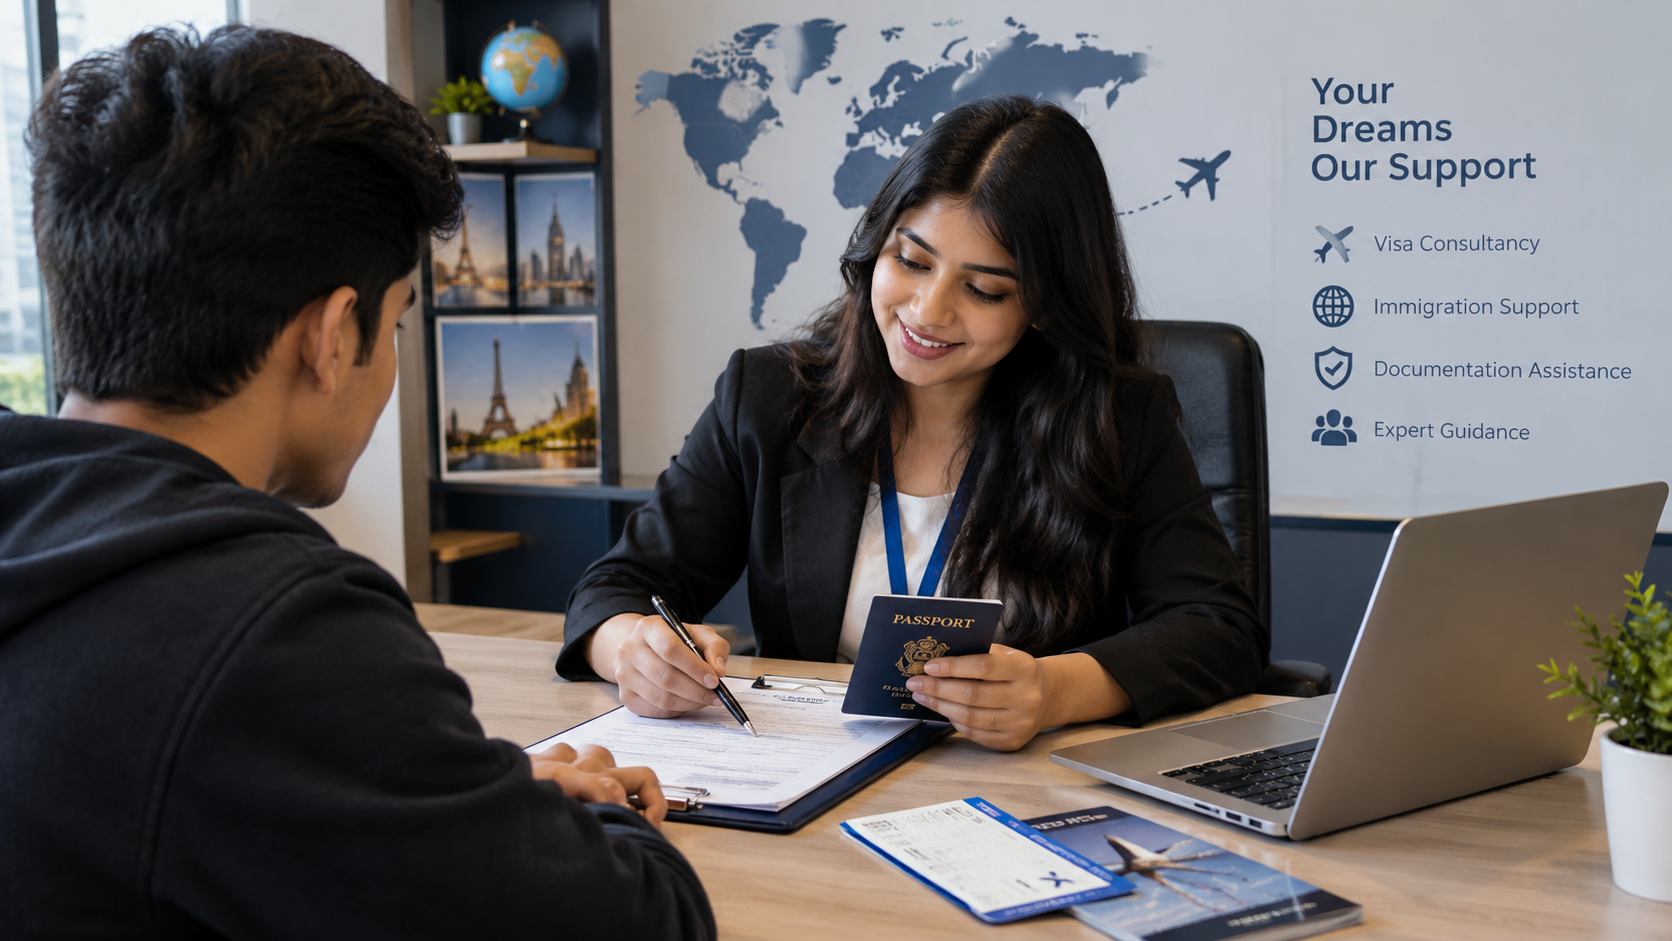
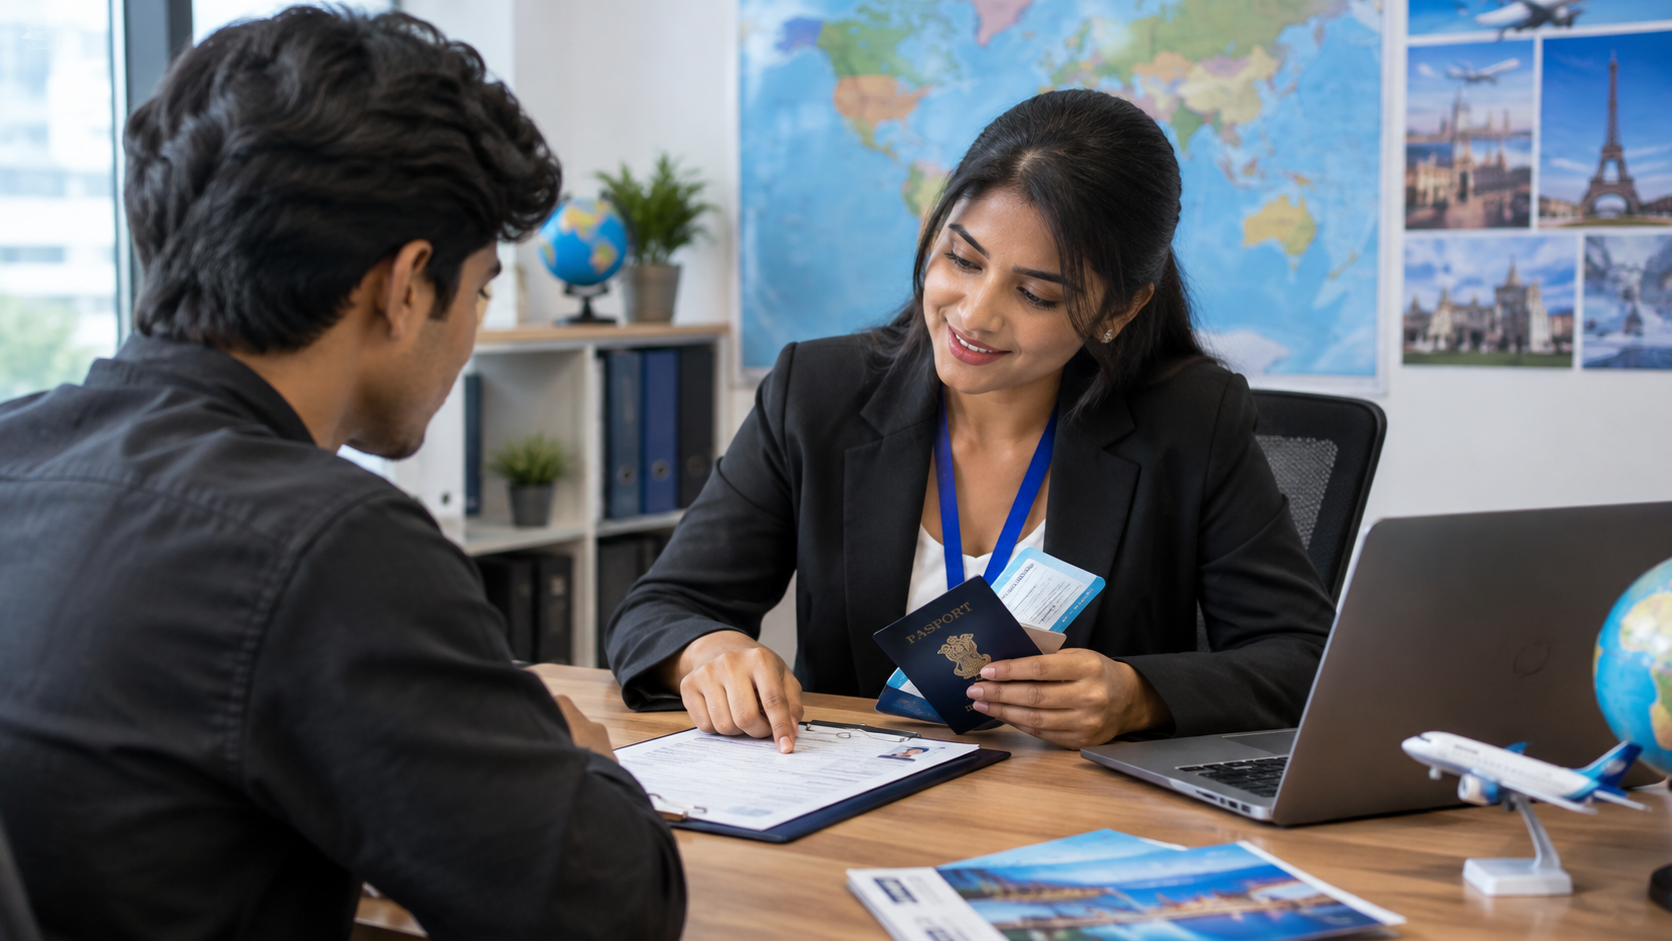
Update and modify the UI parts

diff --git a/components/ContactCTA.tsx b/components/ContactCTA.tsx
@@ -2,7 +2,7 @@ import React from "react";
 
 export default function ContactCTA() {
   return (
-    <section id="contact" className="bg-gm-maroon text-white py-12 sm:py-16">
+    <section id="contact" className="bg-gm-green text-black py-10 sm:py-10 font-semibold  text-size-20">
       <div className="max-w-[900px] mx-auto px-4 sm:px-6 md:px-10 text-center">
         <div>
           <h3 className="font-display text-[22px] sm:text-[24px] md:text-[30px] font-semibold tracking-tight">
@@ -10,32 +10,32 @@ export default function ContactCTA() {
           </h3>
         </div>
 
-        <div className="mt-7 grid grid-cols-1 gap-4 border-t border-white/30 pt-6 text-sm leading-relaxed text-white/85 sm:grid-cols-2 sm:gap-x-8 sm:gap-y-5">
+        <div className="mt-7 grid grid-cols-1 gap-4 border-t border-black pt-6 text-sm leading-relaxed text-bla/85 sm:grid-cols-2 sm:gap-x-8 sm:gap-y-5">
           <div>
-            <p className="font-mono text-xs uppercase tracking-wide text-white/65">Telephone</p>
+            <span className="mb-2 block text-3xl leading-none drop-shadow-sm sm:text-3xl" role="img" aria-label="Telephone">📞</span>
             <div className="mt-1 flex flex-wrap justify-center gap-x-3 gap-y-1">
-              <a href="tel:0117722992" className="hover:underline">011 77 22 992</a>
-              <a href="tel:0247722992" className="hover:underline">024 77 22 992</a>
+              <a href="tel:0117722992" className="hover:underline text-[18px] sm:text-[18px] md:text-[18px] font-semibold tracking-tight">011 77 22 992</a>
+              <a href="tel:0247722992" className="hover:underline text-[18px] sm:text-[18px] md:text-[18px] font-semibold tracking-tight">024 77 22 992</a>
             </div>
           </div>
           <div>
-            <p className="font-mono text-xs uppercase tracking-wide text-white/65">Mobile</p>
-            <a href="tel:0777722992" className="mt-1 inline-block hover:underline">077 77 22 992</a>
+            <span className="mb-2 block text-3xl leading-none drop-shadow-sm sm:text-3xl" role="img" aria-label="Mobile">📱</span>
+            <a href="tel:0777722992" className="mt-1 inline-block hover:underline text-[18px] sm:text-[18px] md:text-[18px] font-semibold tracking-tight">077 77 22 992</a>
           </div>
           <div>
-            <p className="font-mono text-xs uppercase tracking-wide text-white/65">Email</p>
+            <span className="mb-2 block text-3xl leading-none drop-shadow-sm sm:text-3xl" role="img" aria-label="Email">✉</span>
             <div className="mt-1 flex flex-col gap-1">
-              <a href="mailto:globalmaxnet@gmail.com" className="break-words hover:underline">
+              <a href="mailto:globalmaxnet@gmail.com" className="break-words hover:underline text-[18px] sm:text-[18px] md:text-[18px] font-semibold tracking-tight">
                 globalmaxnet@gmail.com
               </a>
-              <a href="mailto:info@globalmax.lk" className="break-words hover:underline">
+              <a href="mailto:info@globalmax.lk" className="break-words hover:underline text-[18px] sm:text-[18px] md:text-[18px] font-semibold tracking-tight">
                 info@globalmax.lk
               </a>
             </div>
           </div>
           <div>
-            <p className="font-mono text-xs uppercase tracking-wide text-white/65">Address</p>
-            <address className="mt-1 not-italic">No. 79, 2nd Floor, Kandasamy Kovil Road, Vavuniya</address>
+            <span className="mb-2 block text-3xl leading-none drop-shadow-sm sm:text-3xl" role="img" aria-label="Address">📍</span>
+            <address className="mt-1 not-italic text-[18px] sm:text-[18px] md:text-[18px] font-semibold tracking-tight">No. 79, 2nd Floor, Kandasamy Kovil Road, Vavuniya</address>
           </div>
         </div>
       </div>

diff --git a/components/VisionMission.tsx b/components/VisionMission.tsx
@@ -1,21 +1,8 @@
 import React from "react";
 
-const OBJECTIVES = [
-  "Customer-Centric Service – Deliver personalized, professional and high-quality services based on the needs and goals of our clients.",
-  "Visa & Migration Excellence – Continue to develop as a trusted professional service provider in visa consultancy and migration-related services.",
-  "Education & International Opportunities – Guide students and young people towards international education, employment and career opportunities.",
-  "Travel & Airline Services – Provide integrated Visa, Ticketing and Travel Support from the application stage through to international travel.",
-  "Digital Transformation – Simplify essential services through technology and develop innovative digital platforms that improve accessibility and convenience.",
-  "Employment & Career Ecosystem – Connect employers and job seekers through digital employment platforms such as Job Martz.",
-  "Media & Digital Communication – Strengthen news, advertising and promotional services through Vettri TV and digital media channels.",
-  "Business Diversification – Expand into Travel, Technology, Media, Real Estate, Digital Services and other related business sectors.",
-  "Regional & Global Expansion – Strengthen our presence in Northern and Eastern Sri Lanka while expanding our services across Sri Lanka and international markets.",
-  "Long-Term Partnerships – Build trusted, sustainable relationships with clients, educational institutions, recruitment agencies, corporate organizations, investors and strategic partners.",
-];
-
 export default function VisionMission() {
   return (
-      <section id="vision-mission" className=" bg-slate-200 text-black py-16 sm:py-20 md:py-28">
+      <section id="vision-mission" className="bg-white text-black pt-16 pb-4 sm:pt-20 sm:pb-6 md:pt-28 md:pb-8">
       <div className="max-w-[1180px] mx-auto px-4 sm:px-6 md:px-10">
         <div className="mb-12 text-center md:text-left">
           <h2 className="font-display text-[24px] sm:text-[30px] md:text-[42px] font-semibold tracking-tight leading-tight text-[--gm-ink]">
@@ -24,7 +11,7 @@ export default function VisionMission() {
           </h2>
 
           <div className="mt-6 font-mono text-[12.5px] uppercase tracking-[0.22em] text-[--gm-text-soft]">
-            MISSION • VISION • OBJECTIVES
+            MISSION • VISION
           </div>
         </div>
 
@@ -49,18 +36,6 @@ export default function VisionMission() {
               travel, digital marketing, media, real estate and digital platforms, while continuously expanding our
               services through innovation and technology.”
             </p>
-          </div>
-
-          <div className="border-l-2 border-gm-green pl-5 md:pl-6">
-            <h3 className="font-display text-[22px] md:text-[28px] font-semibold text-[--gm-ink]">
-              Our Objectives
-            </h3>
-
-            <ol className="mt-5 list-decimal pl-5 sm:pl-6 space-y-3 text-[15px] md:text-[17px] leading-7 md:leading-8 text-[--gm-text-soft]  text-black">
-              {OBJECTIVES.map((objective) => (
-                <li key={objective}>{objective}</li>
-              ))}
-            </ol>
           </div>
         </div>
       </div>

diff --git a/app/page.tsx b/app/page.tsx
@@ -1,21 +1,19 @@
 import Header from "@/components/Header";
 import Hero from "@/components/Hero";
-
 import Stats from "@/components/Stats";
-
 import WhyChooseUs from "@/components/WhyChooseUs";
 import ContactCTA from "@/components/ContactCTA";
 import Footer from "@/components/Footer";
 import Brand from "@/components/Brand";
 import ImageCarousel from "@/components/ImageCarousel";
-
+import VisionMission from "@/components/VisionMission";
 
 
 export default function Home() {
   return (
     <main>
       <Header />
-      <Hero />
+      
       <ImageCarousel
         slides={[       
           {
@@ -24,7 +22,6 @@ export default function Home() {
             title: "Visa Consultancy",
             description: "End-to-end support across all visa categories, from eligibility checks to pre-departure guidance.",
           },
-
           {
             src: "/DigitalMarketing.png",
             alt: "Digital Marketing",
@@ -32,20 +29,35 @@ export default function Home() {
             description: "Social media management, content creation, SEO, and promotional campaigns.",
           },
           {
-            src:"/RealEstateServices.png",
+            src:"/RealEstate.png",
             alt: "Real Estate Service",
             title: "Real Estate Service",
             description: "Connecting futures with trusted, professional services.",
           },
           {
-            src: "/Student&EducationGuidance.png",
+            src: "/StudentEdu.png",
             alt: "Student Education Guidance",
             title: "Student Education Guidance",
             description: "Counselling on study destinations, admissions, interview prep, and scholarship guidance.",
           },
+          {
+            src: "/VettriTV.png",
+            alt: "Student Education Guidance",
+            title: "Student Education Guidance",
+            description: "Counselling on study destinations, admissions, interview prep, and scholarship guidance.",
+          },
+          {
+            src: "/AirTicket.png",
+            alt: "Air Ticketing",
+            title: "Air Ticketing",
+            description: "Counselling on study destinations, admissions, interview prep, and scholarship guidance.",
+          },
         ]}
         intervalMs={5000}
-      />      <Brand />
+      />     
+      <Brand />
+      <Hero />
+      <VisionMission />
      
       <Stats />
       <WhyChooseUs />

diff --git a/components/Header.tsx b/components/Header.tsx
@@ -28,11 +28,11 @@ export default function Header() {
   }, [open]);
 
   return (
-    <header className="sticky top-0 z-50 backdrop-blur border-b border-[--gm-line] bg-white/90">
+    <header className="sticky top-0 z-50 backdrop-blur border-b border-[--gm-line] bg-white/90 ">
       <div className="max-w-[1180px] mx-auto px-4 sm:px-6 md:px-10 flex items-center justify-between h-16 sm:h-[76px] gap-3">
         <Link href="/" className="flex items-center min-w-0 shrink-0" onClick={() => setOpen(false)}>
           {/* eslint-disable-next-line @next/next/no-img-element */}
-          <img src="/logo.jpeg" alt="Global Max Networks" className="h-9 sm:h-11 w-auto max-w-[160px] object-contain" />
+          <img src="/logo.jpeg" alt="Global Max Networks" className="h-9 sm:h-11 w-auto max-w-[180px] object-contain" />
         </Link>
 
         <nav className="hidden lg:flex gap-6 xl:gap-8">
@@ -40,7 +40,7 @@ export default function Header() {
             <Link
               key={link.label}
               href={link.href}
-              className="font-mono text-[13px] uppercase tracking-wider text-[--gm-text-soft] pb-1 border-b border-transparent hover:border-gm-maroon hover:text-gm-maroon transition whitespace-nowrap"
+              className="font-mono text-[14px] uppercase tracking-wider text-[--gm-text-soft] pb-1 border-b border-transparent hover:border-gm-maroon hover:text-gm-maroon transition whitespace-nowrap"
             >
               {link.label}
             </Link>
@@ -50,7 +50,7 @@ export default function Header() {
         <div className="flex items-center gap-2 sm:gap-3">
           <Link
             href="/#contact"
-            className="hidden sm:inline-flex font-mono text-[13px] md:text-[15px] uppercase tracking-wide border border-gm-maroon text-gm-maroon px-3 md:px-[18px] py-2 md:py-[9px] transition hover:bg-gm-maroon hover:text-white whitespace-nowrap"
+            className="hidden sm:inline-flex font-mono text-[13px] md:text-[15px] uppercase tracking-wide border border-gm-green text-gm-maroon px-3 md:px-[18px] py-2 md:py-[9px] transition hover:bg-gm-maroon hover:text-white whitespace-nowrap"
           >
             Get in Touch
           </Link>

diff --git a/components/Footer.tsx b/components/Footer.tsx
@@ -26,8 +26,8 @@ const COLUMNS = [
   {
     title: "Coming Soon",
     links: [
-      { label: "Job Portal", href: "#" },
-      { label: "Matrimonial Platform", href: "#" },
+      { label: "Job Portal"},
+      { label: "Matrimonial Platform"},
     ],
   },
 ];
@@ -44,16 +44,7 @@ export default function Footer() {
               Connecting people with opportunities, services, and global possibilities. Est. 2022,
               Sri Lanka.
             </p>
-            <form className="flex flex-col sm:flex-row mt-4 border border-[--gm-line-inv] min-w-0" onSubmit={(e) => e.preventDefault()}>
-              <input
-                type="email"
-                placeholder="you@company.com"
-                className="font-body bg-transparent border-none px-3.5 py-3 text-sm flex-1 min-w-0 outline-none text-white placeholder:text-[--gm-text-soft-inv]"
-              />
-              <button type="submit" className="font-mono px-4 py-3 sm:py-0 border-none text-[13px] bg-gm-green text-white shrink-0">
-                Subscribe
-              </button>
-            </form>
+           
           </div>
 
           {COLUMNS.map((col) => (
@@ -64,12 +55,16 @@ export default function Footer() {
               <ul className="flex flex-col gap-3">
                 {col.links.map((link) => (
                   <li key={link.label}>
-                    <Link
-                      href={link.href}
-                      className="text-[14.5px] opacity-85 hover:opacity-100 hover:underline"
-                    >
-                      {link.label}
-                    </Link>
+                    {"href" in link ? (
+                      <Link
+                        href={link.href}
+                        className="text-[14.5px] opacity-85 hover:opacity-100 hover:underline"
+                      >
+                        {link.label}
+                      </Link>
+                    ) : (
+                      <span className="text-[14.5px] opacity-85">{link.label}</span>
+                    )}
                   </li>
                 ))}
               </ul>

diff --git a/components/ImageCarousel.tsx b/components/ImageCarousel.tsx
@@ -2,6 +2,7 @@
 
 import { useEffect, useState } from "react";
 import Image from "next/image";
+import Link from "next/link";
 
 interface Slide {
   src: string;
@@ -32,11 +33,17 @@ export default function ImageCarousel({
   }, [slides.length, intervalMs]);
 
   return (
-    <section className="bg-white py-6 sm:py-8 md:py-12">
-      <div className="max-w-[1200px] mx-auto px-4 sm:px-6 md:px-8">
+    <section className="bg-white">
+      <div>
 
         {/* Carousel */}
-        <div className="relative overflow-hidden rounded-2xl shadow-xl">
+        <div className="relative overflow-hidden shadow-xl">
+          <Link
+            href="/about"
+            className="absolute right-4 top-4 z-10 bg-gm-maroon px-4 py-2 font-mono text-xs uppercase tracking-wide text-white transition hover:bg-gm-maroon-dark sm:right-6 sm:top-6 sm:px-5 sm:py-3"
+          >
+            About Us
+          </Link>
 
           {/* Slides */}
           <div
@@ -48,14 +55,16 @@ export default function ImageCarousel({
             {slides.map((slide, index) => (
               <div
                 key={index}
-                className="relative min-w-full h-[220px] sm:h-[380px] md:h-[520px] lg:h-[620px]"
+                className="relative min-w-full"
               >
                 <Image
                   src={slide.src}
                   alt={slide.alt}
-                  fill
+                  width={1672}
+                  height={941}
                   priority={index === 0}
-                  className="object-cover"
+                  sizes="100vw"
+                  className="block h-auto w-full"
                 />
 
                 {/* Dark Overlay */}

diff --git a/components/Stats.tsx b/components/Stats.tsx
@@ -9,15 +9,15 @@ const STATS = [
 
 export default function Stats() {
   return (
-    <section className="bg-white py-12 sm:py-16 md:py-24">
-      <div className="max-w-[1180px] mx-auto px-4 sm:px-6 md:px-10">
-        <div className="grid grid-cols-2 md:grid-cols-4 gap-6 sm:gap-10 border-t border-[--gm-line] pt-8 md:pt-12">
+    <section className=" border-white/60 shadow-md shrink-0 bg-gm-maroon pt-4 pb-4 sm:pt-6 sm:pb-6 md:pt-8 md:pb-8">
+      <div className="max-w-[1180px] mx-auto px-4 sm:px-6 md:px-10 flex justify-center">
+        <div className="grid grid-cols-2 md:grid-cols-4 gap-6 sm:gap-10 pt-8 md:pt-12">
           {STATS.map((s) => (
             <div key={s.label}>
-              <b className="font-display block text-[28px] sm:text-[36px] md:text-[44px] font-semibold tracking-tight text-gm-maroon">
+              <b className="font-display block text-[28px] sm:text-[36px] md:text-[44px] font-semibold tracking-tight text-white">
                 {s.value}
               </b>
-              <span className="font-mono text-[12.5px] uppercase tracking-wide text-[--gm-text-soft]">
+              <span className="font-mono text-[12.5px] uppercase tracking-wide text-[--gm-text-soft] text-white">
                 {s.label}
               </span>
             </div>

diff --git a/components/Brand.tsx b/components/Brand.tsx
@@ -1,19 +1,21 @@
 
 import React from "react";
+import Image from "next/image";
 
 export default function Brand() {
   return (
-    <section id="brand" className="bg-gm-maroon text-white py-10 sm:py-16">
-      <div className="max-w-[1180px] mx-auto px-4 sm:px-6 md:px-10 flex flex-col items-center justify-center text-center gap-2">
-          <h1 className="font-display text-[28px] sm:text-[30px] md:text-[52px] leading-[1.08] tracking-tight font-semibold max-w-[640px]">
-          Global Max
-        </h1>
-
-        <h3 className="font-display text-[20px] md:text-[30px] font-semibold tracking-tight">
-          &ldquo;We are your partner&rdquo;
-        </h3>
-      </div>
-    </section>
-  );
+		<section id="brand" className="bg-white py-10 sm:py-16">
+			<div className="max-w-[1180px] mx-auto px-4 sm:px-6 md:px-10 flex justify-center">
+				<Image
+					src="/Partner.png"
+					alt="We are your partner"
+					width={1942}
+					height={809}
+					sizes="(max-width: 1180px) 100vw, 1180px"
+					className="h-auto w-full max-w-[900px]"
+				/>
+			</div>
+		</section>
+	);
 }
 

diff --git a/components/WhyChooseUs.tsx b/components/WhyChooseUs.tsx
@@ -34,7 +34,7 @@ const REASONS: Reason[] = [
 
 export default function WhyChooseUs() {
   return (
-    <section id="why-us" className="py-16 sm:py-20 md:py-28">
+    <section id="why-us" className="pt-4 pb-10 sm:pt-6 sm:pb-12 md:pt-8 md:pb-20 ">
       <div className="max-w-[1180px] mx-auto px-4 sm:px-6 md:px-10">
         <div className="max-w-[640px] mb-10 md:mb-14">
           <div className="font-mono text-[12.5px] uppercase tracking-widest mb-4 text-[--gm-text-soft]">
